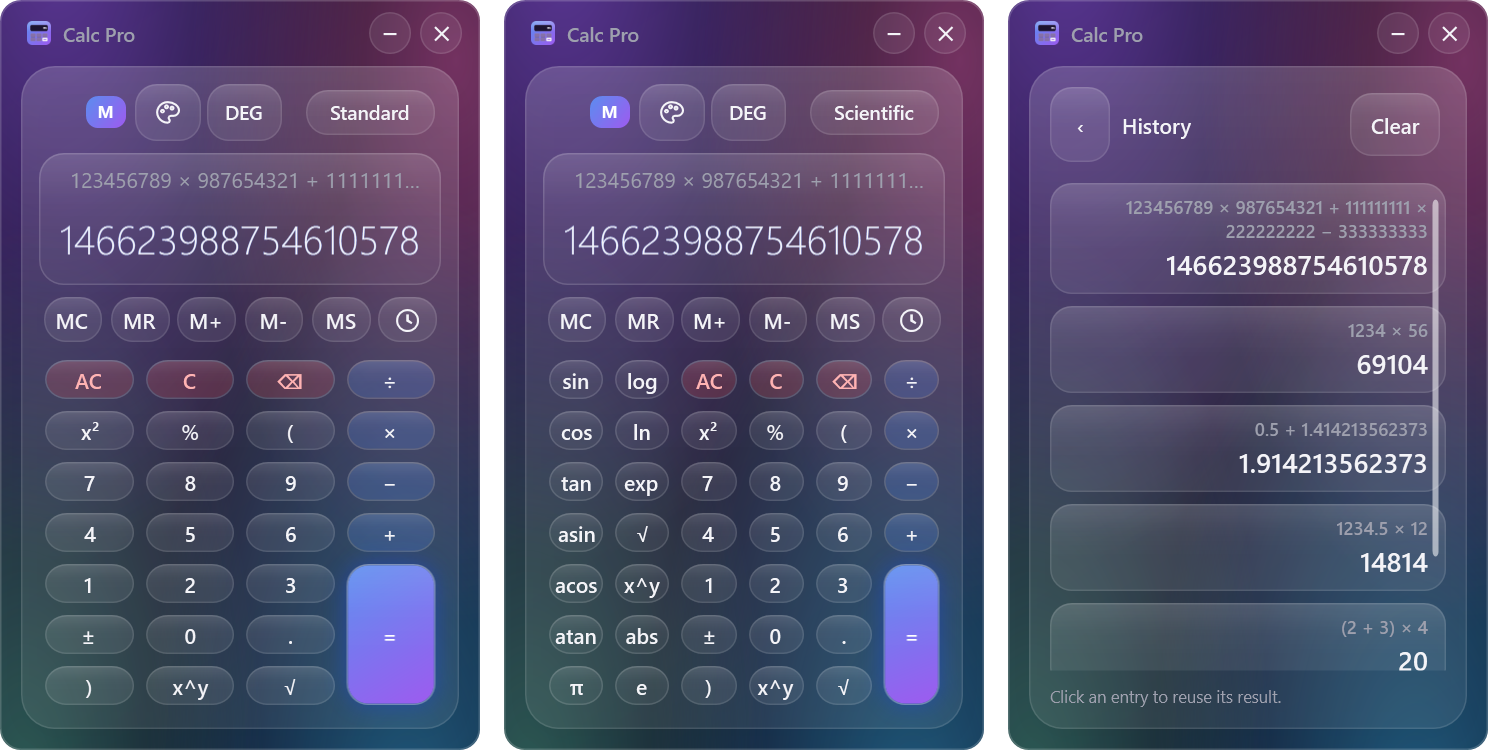
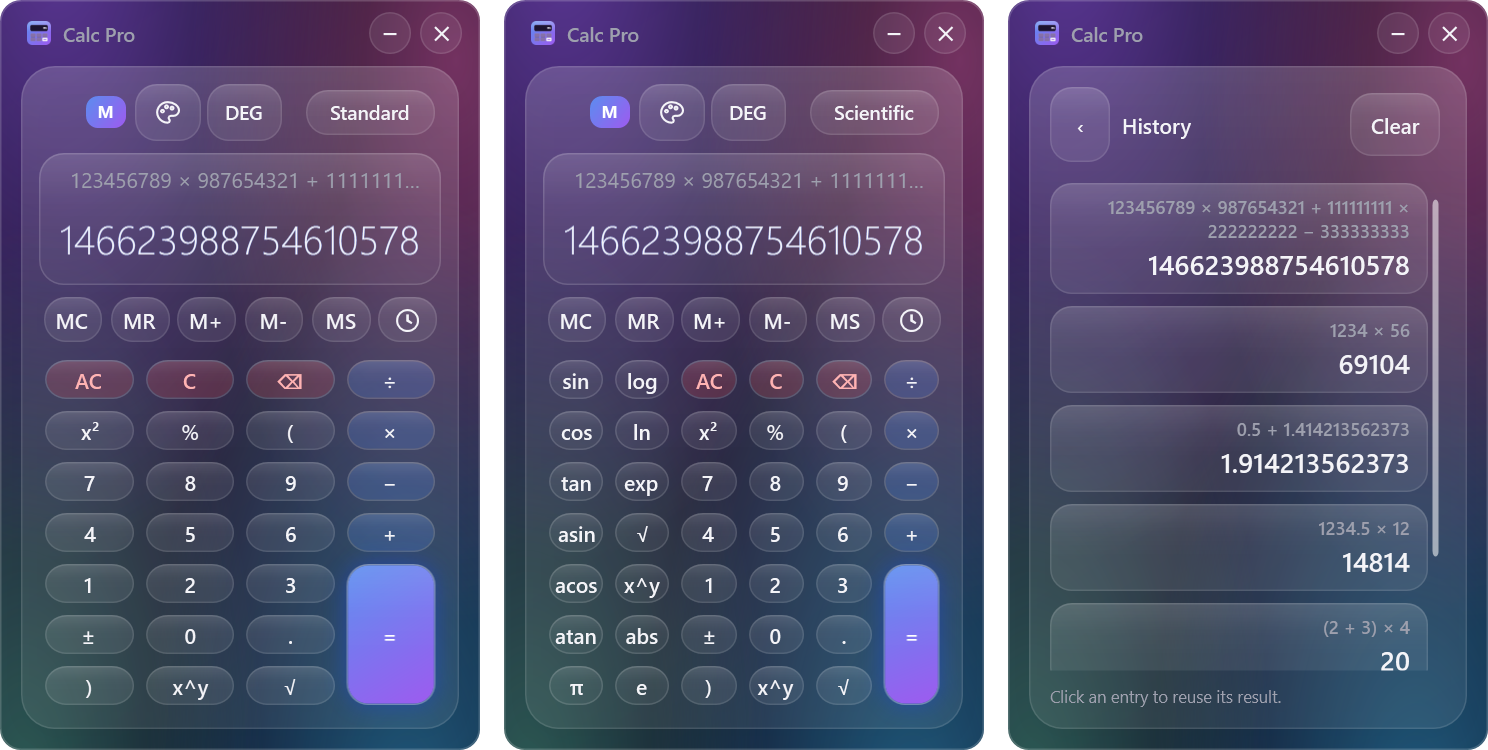
Calc Pro: полоса прокрутки истории не ложится на записи

diff --git a/calcpro-wpf/src/CalcPro.Wpf/MainWindow.xaml b/calcpro-wpf/src/CalcPro.Wpf/MainWindow.xaml
@@ -484,7 +484,8 @@
                     </Grid>
 
                     <ScrollViewer Grid.Row="1" VerticalScrollBarVisibility="Auto">
-                        <ItemsControl ItemsSource="{Binding HistoryEntries}">
+                        <!-- Отступ справа: полоса прокрутки ложилась поверх правого края записей. -->
+                        <ItemsControl ItemsSource="{Binding HistoryEntries}" Margin="0,0,12,0">
                             <ItemsControl.ItemTemplate>
                                 <DataTemplate>
                                     <Button Style="{StaticResource GlassButton}"
